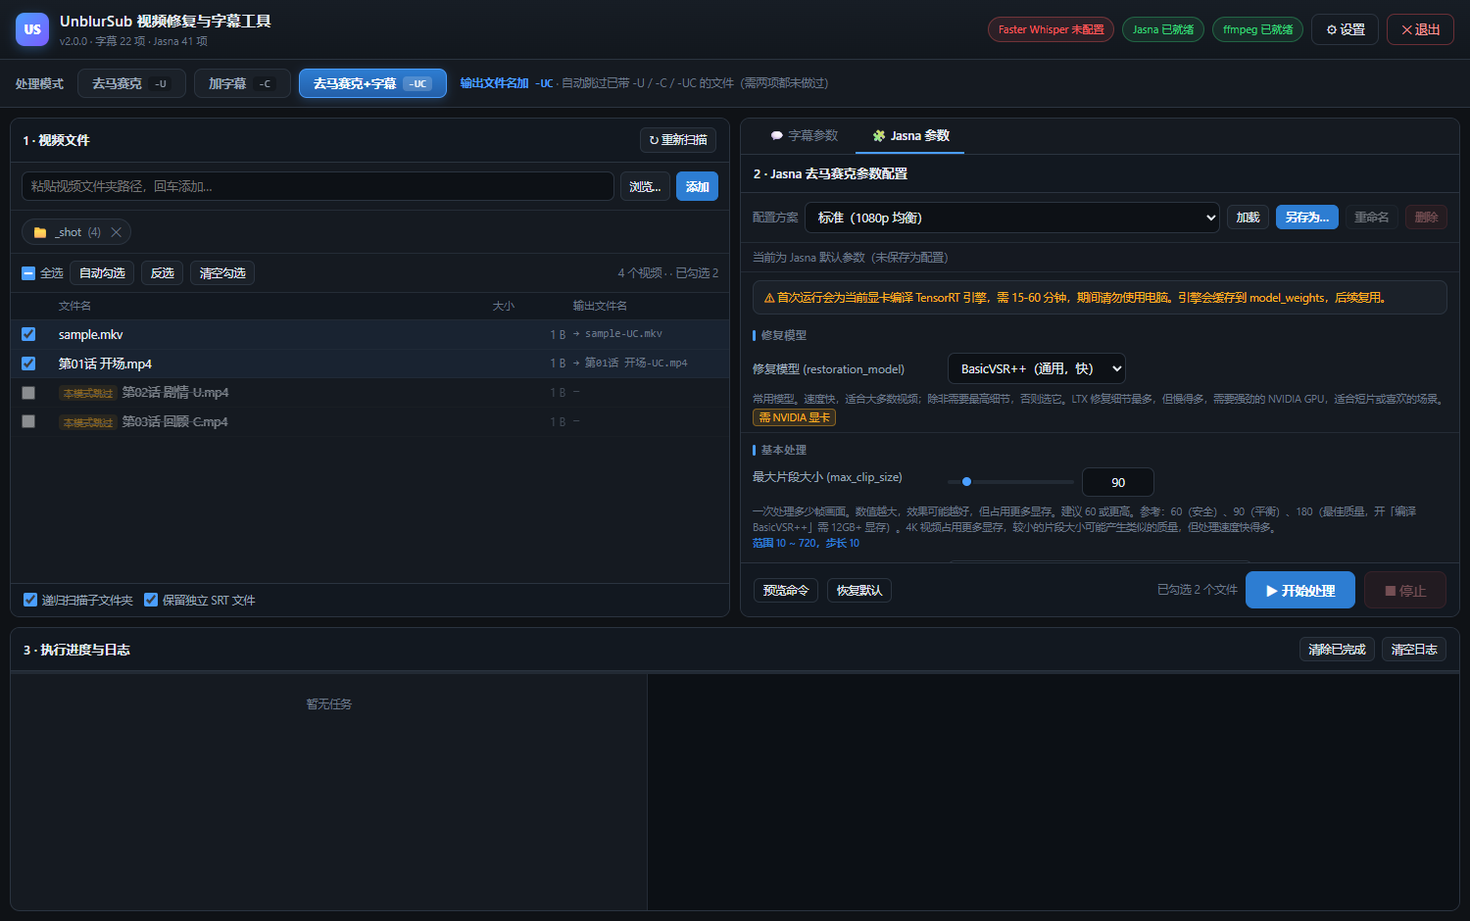
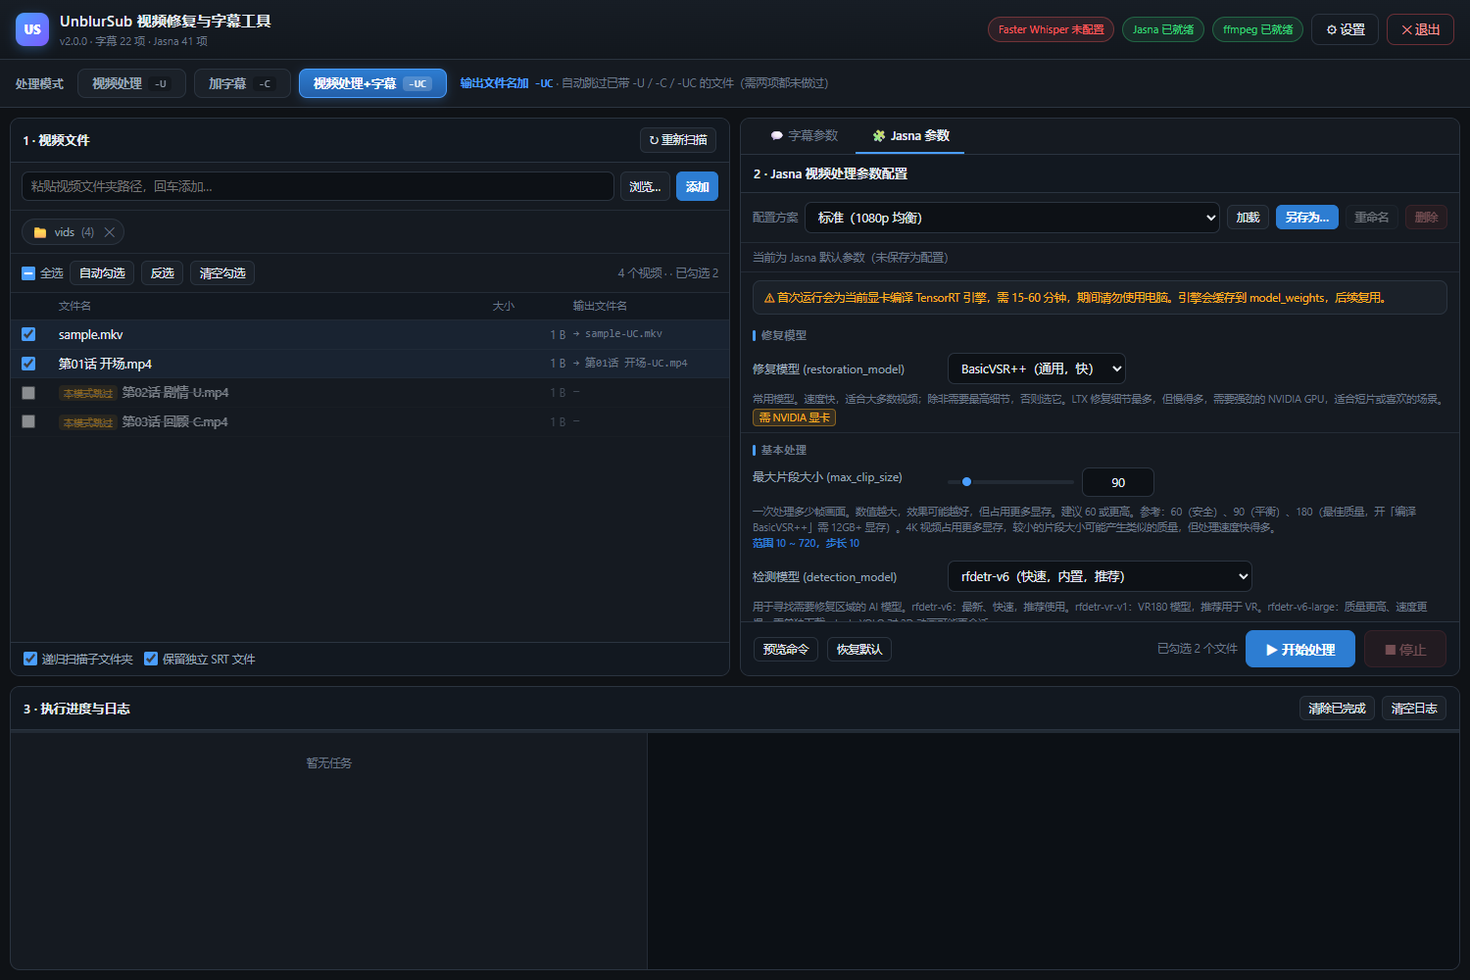
refactor: 将「去马赛克」相关表述统一为「视频处理」
按用户要求，把项目内所有面向用户的「去马赛克」表述改为中性的「视频处理」。
功能、参数、命令、命名规则均未改动，只改文案。

用户可见表述（已改）
- 模式名：「只清除马赛克」→「只做视频处理」
          「清除马赛克 + 生成中文字幕」→「视频处理 + 生成中文字幕」
          短标签「去马赛克」→「视频处理」
- 后缀语义说明：「-U = 已去马赛克」→「-U = 已完成视频处理」
- 界面：Tab 标题「Jasna 去马赛克参数配置」→「Jasna 视频处理参数配置」
        设置项「用于清除马赛克」→「用于视频处理」
        命名规则说明、跳过标签、模式提示同步更新
- 进度阶段名：「去马赛克中」→「视频处理中」，日志与错误文案同步
- 参数说明中的算法描述改为中性技术表述：
  「被跟踪的马赛克消失」→「被跟踪的目标消失」
  「正在跟踪的马赛克片段」→「正在跟踪的处理片段」
  「LTX 大马赛克模式」→「LTX 大面积区域模式」
  「Jasna 去除马赛克需要重新编码」→「Jasna 的 AI 处理需要重新编码」
  「Lada YOLO 对 2D 动画的马赛克定位」→「对 2D 动画画面中的目标定位」
- README：标题、副标题、定位描述、流程表、命名表、FAQ 全部同步

刻意保留的「马赛克」（技术事实，非本项目定位）
- README 致谢章节中介绍 Jasna / Lada / ZeLeFans 时对其功能的客观描述
  —— 抹掉这些会让读者误解上游项目的实际能力
- 三个内置配置的说明文案仍保留「去马赛克失败/完成」改为「视频处理失败/完成」，
  但 jasna_core 中的 CLI 参数名（--max-detection-gap 等）一律不动，
  否则无法与 Jasna 官方程序对接

顺带
- 修正批量替换导致的语法不通顺处（如「已视频处理」→「已完成视频处理」）
- selftest 中断言「跳过原因含『已完成视频处理』」与代码文案同步更新
- README.assets/screenshot-params.png 重新截图，反映新文案
- 删除 screenshot-main-ui.png：v1.x 旧版界面截图，已无引用且会误导

验证：selftest 350/350 通过，node --check 通过，浏览器实测三处界面文案均正确。

diff --git a/web/index.html b/web/index.html
@@ -115,7 +115,7 @@
       <!-- Tab 2：Jasna 参数 -->
       <div class="tab-pane" id="paneJasna">
         <div class="pane-head">
-          <h2>2 · Jasna 去马赛克参数配置</h2>
+          <h2>2 · Jasna 视频处理参数配置</h2>
           <div class="pane-head-actions">
             <span id="jasnaDirtyDot" class="dirty hidden" title="当前参数已修改但未保存为配置">● 未保存</span>
           </div>
@@ -172,7 +172,7 @@
     <div class="modal-head"><h3>⚙ 设置</h3><button class="modal-x" data-close>✕</button></div>
     <div class="modal-body">
       <label class="fld">
-        <span>Jasna 程序目录（须含 jasna.exe，用于清除马赛克）</span>
+        <span>Jasna 程序目录（须含 jasna.exe，用于视频处理）</span>
         <div class="row">
           <input id="inpJasnaDir" type="text" spellcheck="false" placeholder="D:\...\jasna-windows-0.10.0">
           <button id="btnJasnaBrowse" class="btn tiny">浏览…</button>
@@ -220,17 +220,17 @@
         <input id="inpExts" type="text" spellcheck="false">
       </label>
       <label class="fld inline"><input type="checkbox" id="chkKeepIntermediate">
-        <span>保留中间视频（模式 3：去马赛克后、加字幕前的文件）</span></label>
+        <span>保留中间视频（模式 3：视频处理后、加字幕前的文件）</span></label>
       <em class="msg tip">中间视频写在临时工作目录里，完成后自动删除。勾选后会移动到源文件所在文件夹，便于中途人工检查效果。失败时不会保留。</em>
       <label class="fld inline"><input type="checkbox" id="chkClosePrompt" checked>
         <span>关闭程序时，若参数已修改则提示是否保存为新配置</span></label>
       <div class="naming-note">
-        <b>命名规则</b>（后缀含义：<code>-U</code> 已去马赛克、<code>-C</code> 已加中文字幕、<code>-UC</code> 两者都有）<br>
-        · 模式 1（只去马赛克）：<code>原名-U</code>；原名以 <code>-C</code> 结尾则改为 <code>原名-UC</code><br>
+        <b>命名规则</b>（后缀含义：<code>-U</code> 已完成视频处理、<code>-C</code> 已加中文字幕、<code>-UC</code> 两者都有）<br>
+        · 模式 1（只视频处理）：<code>原名-U</code>；原名以 <code>-C</code> 结尾则改为 <code>原名-UC</code><br>
         · 模式 2（只加字幕）：<code>原名-C</code>；原名以 <code>-U</code> 结尾则改为 <code>原名-UC</code><br>
         · 模式 3（两者都做）：<code>原名-UC</code>；原名已带 <code>-C</code> 或 <code>-U</code> 时<b>自动跳过</b><br>
         字幕轨道名固定为 <b>中文字幕</b>，视频与音频流直接 copy 不重新编码；
-        <b>但去马赛克必须重新编码</b>（AI 修复无法通过 copy 完成），耗时与体积开销由此产生。
+        <b>但视频处理必须重新编码</b>（AI 处理无法通过 copy 完成），耗时与体积开销由此产生。
       </div>
     </div>
     <div class="modal-foot">

diff --git a/web/app.js b/web/app.js
@@ -104,9 +104,9 @@ async function boot() {
 
 /* ---------------- 处理模式 ---------------- */
 const MODE_META = {
-  1: { label: '只清除马赛克', short: '去马赛克', suffix: '-U', needJasna: true, needSub: false },
+  1: { label: '只做视频处理', short: '视频处理', suffix: '-U', needJasna: true, needSub: false },
   2: { label: '只生成中文字幕', short: '加字幕', suffix: '-C', needJasna: false, needSub: true },
-  3: { label: '清除马赛克 + 生成中文字幕', short: '去马赛克+字幕', suffix: '-UC', needJasna: true, needSub: true },
+  3: { label: '视频处理 + 生成中文字幕', short: '视频处理+字幕', suffix: '-UC', needJasna: true, needSub: true },
 };
 function modeMeta(m) { return MODE_META[Number(m)] || MODE_META[2]; }
 

diff --git a/jasna_core.py b/jasna_core.py
@@ -1,5 +1,5 @@
 # -*- coding: utf-8 -*-
-"""Jasna（马赛克去除）集成层：参数 schema、命令构造、目录校验。
+"""Jasna（视频处理）集成层：参数 schema、命令构造、目录校验。
 
 与字幕模块平行设计，遵循同样的约定：
   - 不依赖任何界面 / 网络库，可单独 import 做单元测试
@@ -17,7 +17,7 @@ from pathlib import Path
 # --------------------------------------------------------------------------
 # 处理模式
 # --------------------------------------------------------------------------
-# 1 = 只清除马赛克   -> 输出 -U
+# 1 = 只做视频处理   -> 输出 -U
 # 2 = 只生成中文字幕 -> 输出 -C
 # 3 = 两者都做        -> 输出 -UC
 
@@ -26,15 +26,15 @@ MODE_SUBTITLE = 2
 MODE_BOTH = 3
 
 MODES = [
-    {"value": MODE_UNBLUR, "key": "unblur", "label": "只清除马赛克",
-     "short": "去马赛克", "suffix": "-U",
-     "desc": "调用 Jasna 去除马赛克，输出文件名加 -U 后缀"},
+    {"value": MODE_UNBLUR, "key": "unblur", "label": "只做视频处理",
+     "short": "视频处理", "suffix": "-U",
+     "desc": "调用 Jasna 处理视频，输出文件名加 -U 后缀"},
     {"value": MODE_SUBTITLE, "key": "subtitle", "label": "只生成中文字幕",
      "short": "加字幕", "suffix": "-C",
      "desc": "调用 Faster Whisper 生成中文字幕并软封装，输出文件名加 -C 后缀"},
-    {"value": MODE_BOTH, "key": "both", "label": "清除马赛克 + 生成中文字幕",
-     "short": "去马赛克+字幕", "suffix": "-UC",
-     "desc": "先去马赛克，再生成中文字幕，输出文件名加 -UC 后缀"},
+    {"value": MODE_BOTH, "key": "both", "label": "视频处理 + 生成中文字幕",
+     "short": "视频处理+字幕", "suffix": "-UC",
+     "desc": "先做视频处理，再生成中文字幕，输出文件名加 -UC 后缀"},
 ]
 MODE_VALUES = [m["value"] for m in MODES]
 MODE_BY_VALUE = {m["value"]: m for m in MODES}
@@ -52,7 +52,7 @@ def normalize_mode(mode) -> int:
 # --------------------------------------------------------------------------
 # 命名规则（随模式变化）
 # --------------------------------------------------------------------------
-# 后缀语义：-U = 已去马赛克，-C = 已加中文字幕，-UC = 两者都有
+# 后缀语义：-U = 已完成视频处理，-C = 已加中文字幕，-UC = 两者都有
 
 def processed_flags(stem: str) -> dict:
     """解析文件名后缀，判断该文件已经做过哪些处理。
@@ -75,10 +75,10 @@ def processed_flags(stem: str) -> dict:
 def target_stem_mode(stem: str, mode: int) -> str:
     """按处理模式计算输出文件名（不含扩展名）。
 
-    模式 1（只去马赛克）：加 -U；原名以 -C 结尾 -> 把 -C 换成 -UC
+    模式 1（只视频处理）：加 -U；原名以 -C 结尾 -> 把 -C 换成 -UC
         ABC     -> ABC-U
         ABC-C   -> ABC-UC
-        ABC-U   -> ABC-U     （已去马赛克，模式 1 下会被跳过，此处仅兜底）
+        ABC-U   -> ABC-U     （已完成视频处理，模式 1 下会被跳过，此处仅兜底）
     模式 2（只加字幕）：加 -C；原名以 -U 结尾 -> 把 -U 换成 -UC
         ABC     -> ABC-C
         ABC-U   -> ABC-UC
@@ -88,7 +88,7 @@ def target_stem_mode(stem: str, mode: int) -> str:
     m = normalize_mode(mode)
     flags = processed_flags(stem)
     if m == MODE_UNBLUR:
-        # 已去过的马赛克不能再加 -U；原名是 -C 产物则升级为 -UC
+        # 已处理过的视频不能再加 -U；原名是 -C 产物则升级为 -UC
         if flags["c"]:
             return _swap_suffix(stem, "-UC")
         return stem + "-U"
@@ -115,7 +115,7 @@ def _swap_suffix(stem: str, new_suffix: str) -> str:
 def should_skip(stem: str, mode: int) -> bool:
     """按模式判断该文件是否应跳过（已处理过 / 无法再处理）。
 
-    模式 1（只去马赛克）：已去马赛克的（-U / -UC）跳过
+    模式 1（只做视频处理）：已完成视频处理的（-U / -UC）跳过
     模式 2（只加字幕）：已加字幕的（-C / -UC）跳过
     模式 3（两者都做）：已做过任意一项的（-U / -C / -UC）都跳过，
              因为两个产物合起来就是 -UC，无法在已处理文件上再叠加
@@ -137,15 +137,15 @@ def skip_reason(stem: str, mode: int) -> str:
     m = normalize_mode(mode)
     have = []
     if f["u"]:
-        have.append("已去马赛克")
+        have.append("已完成视频处理")
     if f["c"]:
         have.append("已加中文字幕")
     done = "、".join(have)
     if m == MODE_UNBLUR:
-        return f"文件名后缀表明{done}，模式「只清除马赛克」无需重复处理"
+        return f"文件名后缀表明{done}，模式「只做视频处理」无需重复处理"
     if m == MODE_SUBTITLE:
         return f"文件名后缀表明{done}，模式「只生成中文字幕」无需重复处理"
-    return f"文件名后缀表明{done}，模式「清除马赛克 + 生成中文字幕」需两者都未处理过"
+    return f"文件名后缀表明{done}，模式「视频处理 + 生成中文字幕」需两者都未处理过"
 
 
 def auto_selected_mode(stem: str, mode: int, rule: str = "smart") -> bool:
@@ -190,10 +190,10 @@ JASNA_PARAM_SCHEMA = [
          arg="--ltx-fast", when="true", group="修复模型",
          depends_on="restoration_model:ltx", need="rtx50",
          help="约快 1.4 倍，细节略少。仅限 RTX 50 系列。"),
-    dict(key="ltx_large_canvas", label="LTX 大马赛克更清晰", type="bool", default=False,
+    dict(key="ltx_large_canvas", label="LTX 大面积区域更清晰", type="bool", default=False,
          arg="--ltx-large-canvas", when="true", group="修复模型",
          depends_on="restoration_model:ltx", need="vram10g",
-         help="大马赛克修复得更细致，但这些部分约慢 3 倍。需要至少 10 GB 可用显存。"),
+         help="大块区域处理得更细致，但这些部分约慢 3 倍。需要至少 10 GB 可用显存。"),
     dict(key="ltx_trial", label="LTX 试运行（无需许可证，画面不正确）", type="bool",
          default=False, arg="--ltx-trial", when="true", group="修复模型",
          depends_on="restoration_model:ltx",
@@ -247,17 +247,17 @@ JASNA_PARAM_SCHEMA = [
               "片段 90 → 8-12，片段 180 → 15-20。"),
     dict(key="max_detection_gap", label="最大检测间隙", type="int", default=2,
          range=(0, 10, 1), arg="--max-detection-gap", when="nonempty", group="高级处理",
-         help="填补短暂的检测中断：如果被跟踪的马赛克消失不超过 N 帧且在相同位置重新出现，"
+         help="填补短暂的检测中断：如果被跟踪的目标消失不超过 N 帧且在相同位置重新出现，"
               "则填补间隙并继续该片段，而不是将其切断。保持较小数值，"
               "以免真正快速出现/消失的画面被错误填补。0 表示禁用。"),
     dict(key="min_detection_duration", label="最短检测持续帧数", type="int", default=2,
          range=(0, 10, 1), arg="--min-detection-duration", when="nonempty", group="高级处理",
          help="丢弃持续少于 N 帧的检测（很可能是单帧误检），这些帧保持原样。"
-              "保持较小数值，否则真实存在但只持续几帧的马赛克会被跳过。0 或 1 表示禁用。"),
+              "保持较小数值，否则真实存在但只持续几帧的目标会被跳过。0 或 1 表示禁用。"),
     dict(key="scene_detection", label="镜头切换检测", type="bool", default=True,
          arg="--scene-detection", when="true", group="高级处理",
-         help="检测硬切镜头（场景切换），并在切换点结束所有正在跟踪的马赛克片段，"
-              "确保片段不会跨越两个不同镜头，避免修复时混合切换前后的画面。推荐始终开启。"),
+         help="检测硬切镜头（场景切换），并在切换点结束所有正在跟踪的处理片段，"
+              "确保片段不会跨越两个不同镜头，避免处理时混合切换前后的画面。推荐始终开启。"),
     dict(key="enable_crossfade", label="启用交叉淡入淡出", type="bool", default=True,
          arg="--enable-crossfade", when="true", group="高级处理",
          help="在片段边界处进行平滑过渡，减少画面闪烁。使用已处理的帧，"
@@ -359,8 +359,8 @@ JASNA_PARAM_SCHEMA = [
                         "h264": "H.264 (AVC)（兼容性最好，文件较大）",
                         "av1": "AV1（压缩率最高，需较新播放器与显卡）"},
          arg="--codec", when="always", group="编码输出",
-         help="输出视频格式。注意 Jasna 去除马赛克需要重新编码（不能像字幕那样 copy），"
-              "这是去马赛克的固有代价。"),
+         help="输出视频格式。注意 Jasna 的 AI 处理需要重新编码（不能像字幕那样 copy），"
+              "这是视频处理的固有代价。"),
     dict(key="encoder_cq", label="质量 (CQ)", type="int", default="",
          range=(1, 63, 1), arg="--cq", when="nonempty", group="编码输出",
          placeholder="留空 = 用 GPU 默认值（NVIDIA：H.264 25 / HEVC 28 / AV1 35）",
@@ -574,7 +574,7 @@ def builtin_jasna_profiles() -> dict:
         "动画 / 2D（YOLO 检测）": mk(
             max_clip_size=90, temporal_overlap=8, codec="hevc",
             detection_model="lada-yolov8s", detection_score_threshold=0.25,
-            help="Lada YOLO 检测模型对 2D 动画的马赛克定位更准，推荐阈值 0.25。"
+            help="Lada YOLO 检测模型对 2D 动画画面中的目标定位更准，推荐阈值 0.25。"
                  "需确保 model_weights 下有对应权重。"),
     }
 
@@ -766,7 +766,7 @@ def check_jasna_dependencies(params: dict) -> list:
     if p.get("ltx_fast"):
         out.append({"level": "warn", "text": "LTX 快速模式仅限 RTX 50 系列显卡。"})
     if p.get("ltx_large_canvas"):
-        out.append({"level": "warn", "text": "LTX 大马赛克模式需要至少 10 GB 可用显存。"})
+        out.append({"level": "warn", "text": "LTX 大面积区域模式需要至少 10 GB 可用显存。"})
     if p.get("compile_basicvsrpp"):
         out.append({"level": "warn",
                     "text": "首次运行会为当前显卡编译 TensorRT 引擎，需 15-60 分钟，"

diff --git a/jobs.py b/jobs.py
@@ -1,8 +1,8 @@
 # -*- coding: utf-8 -*-
-"""任务队列与处理流水线：按处理模式执行「去马赛克」与/或「中文字幕」。
+"""任务队列与处理流水线：按处理模式执行「视频处理」与/或「中文字幕」。
 
 三种模式：
-  1只清除马赛克   —— jasna.exe 修复 -> 输出 -U
+  1只做视频处理   —— jasna.exe 修复 -> 输出 -U
   2 只生成中文字幕 —— infer.exe 转录 -> ffmpeg -c copy 封装 -> 输出 -C
   3 两者都做       —— jasna.exe 修复到中间文件 -> 转录 -> 封装 -> 输出 -UC
                      中间文件按设置（keep_intermediate）决定是否保留
@@ -375,7 +375,7 @@ class JobManager:
 
         self.log.push(f"▶ [{job.index}] {src.name}（{jasna_core.MODE_BY_VALUE[mode]['label']}）")
 
-        # ----------阶段 1：去马赛克（模式 1 / 3） ----------
+        # ----------阶段 1：视频处理（模式 1 / 3） ----------
         video_in = src
         if need_jasna:
             video_in = self._stage_unblur(job, src, dst, wd)
@@ -394,9 +394,9 @@ class JobManager:
                       f"（{core.human_size(dst.stat().st_size)}，{mode_label}完成）", "ok")
         return wd
 
-    # ---- 阶段 1：Jasna 去马赛克 ----
+    # ---- 阶段 1：Jasna 视频处理 ----
     def _stage_unblur(self, job: Job, src: Path, dst: Path, wd: Path) -> Path:
-        """调用 jasna.exe 去马赛克。返回去马赛克后的视频路径。
+        """调用 jasna.exe 视频处理。返回视频处理后的视频路径。
 
         模式 1：直接输出到最终 dst。
         模式 3：输出到工作目录作为中间文件，交给阶段 2 加字幕。
@@ -410,8 +410,8 @@ class JobManager:
             # 中间文件放工作目录，避免污染源目录
             target = wd / f"{dst.stem}.{self._jasna_ext()}"
 
-        job.stage = "去马赛克中"
-        # 模式 3 里去马赛克约占 70% 工期（后面转录+封装占 30%）
+        job.stage = "视频处理中"
+        # 模式 3 里视频处理约占 70% 工期（后面转录+封装占 30%）
         base, span = (2, 68) if not is_final else (2, 96)
         job.progress = base
         args = jasna_core.build_jasna_args(job.jasna_params, src, target, wd)
@@ -435,11 +435,11 @@ class JobManager:
                                on_line=on_line, stop_flag=self._stop,
                                pidfile=self._pidfile_path())
         if rc != 0 or self._stop.is_set():
-            raise RuntimeError(f"去马赛克失败（退出码 {rc}），详见日志")
+            raise RuntimeError(f"视频处理失败（退出码 {rc}），详见日志")
         if not target.exists() or target.stat().st_size == 0:
-            raise RuntimeError(f"去马赛克未产出有效文件：{target.name}")
+            raise RuntimeError(f"视频处理未产出有效文件：{target.name}")
         job.progress = base + span
-        self.log.push(f"  去马赛克完成 → {target.name}"
+        self.log.push(f"  视频处理完成 → {target.name}"
                       f"（{core.human_size(target.stat().st_size)}）", "ok")
         if not is_final:
             job.intermediate = target

diff --git a/selftest.py b/selftest.py
@@ -42,9 +42,9 @@ def section(t):
 
 
 # ---------------------------------------------------------------- 1. 命名规则
-section("1. 输出文件命名规则（随处理模式变化：-U=已去马赛克 -C=已加字幕 -UC=两者）")
+section("1. 输出文件命名规则（随处理模式变化：-U=已完成视频处理 -C=已加字幕 -UC=两者）")
 
-# 模式 1：只清除马赛克 -> 加 -U；原名 -C 结尾则升级为 -UC
+# 模式 1：只做视频处理 -> 加 -U；原名 -C 结尾则升级为 -UC
 check("模式1 ABC -> ABC-U", core.target_stem("ABC", 1), "ABC-U")
 check("模式1 ABC-C -> ABC-UC", core.target_stem("ABC-C", 1), "ABC-UC")
 check("模式1 ABC-C -> ABC-UC", core.target_stem("ABC-C", 1), "ABC-UC")
@@ -76,10 +76,10 @@ check("parsed: 小写 abc-uc", jasna_core.processed_flags("abc-uc"), {"u": True,
 
 # ---------------------------------------------------------------- 2. 跳过与自动勾选
 section("2. 按模式跳过规则与自动勾选")
-# 模式 1：已去马赛克的跳过
+# 模式 1：已完成视频处理的跳过
 check("模式1 ABC 不跳过", jasna_core.should_skip("ABC", 1), False)
-check("模式1 ABC-C 不跳过（还能去马赛克）", jasna_core.should_skip("ABC-C", 1), False)
-check("模式1 ABC-U 跳过（已去马赛克）", jasna_core.should_skip("ABC-U", 1), True)
+check("模式1 ABC-C 不跳过（还能视频处理）", jasna_core.should_skip("ABC-C", 1), False)
+check("模式1 ABC-U 跳过（已完成视频处理）", jasna_core.should_skip("ABC-U", 1), True)
 check("模式1 ABC-UC 跳过", jasna_core.should_skip("ABC-UC", 1), True)
 # 模式 2：已加字幕的跳过
 check("模式2 ABC 不跳过", jasna_core.should_skip("ABC", 2), False)
@@ -93,8 +93,8 @@ check("模式3 ABC-C 跳过", jasna_core.should_skip("ABC-C", 3), True)
 check("模式3 ABC-UC 跳过", jasna_core.should_skip("ABC-UC", 3), True)
 
 check_true("跳过原因为空（不跳过时）", jasna_core.skip_reason("ABC", 1) == "")
-check_true("模式1 跳过原因含「已去马赛克」",
-           "已去马赛克" in jasna_core.skip_reason("ABC-U", 1))
+check_true("模式1 跳过原因含「已完成视频处理」",
+           "已完成视频处理" in jasna_core.skip_reason("ABC-U", 1))
 check_true("模式2 跳过原因含「已加中文字幕」",
            "已加中文字幕" in jasna_core.skip_reason("ABC-C", 2))
 check_true("模式3 跳过原因非空", jasna_core.skip_reason("ABC-U", 3) != "")
@@ -596,7 +596,7 @@ with tempfile.TemporaryDirectory() as td:
             os.environ["APPDATA"] = old
 
 # ================================================================
-# 14. Jasna 集成（去马赛克模块）
+# 14. Jasna 集成（视频处理模块）
 # ================================================================
 section("14. Jasna 参数 schema 与内置配置")
 check("JASNA schema 项数 >= 35", len(jasna_core.JASNA_PARAM_SCHEMA) >= 35, True)

diff --git a/core.py b/core.py
@@ -72,7 +72,7 @@ DEFAULT_SETTINGS = {
     "existing_output_policy": "number",  # number / skip / overwrite
     "output_dir": "",             # 新视频输出目录，留空 = 与源文件同目录
     "keep_srt": True,             # 封装后保留中间 SRT
-    "keep_intermediate": False,   # 保留模式 3 的中间视频（去马赛克后、加字幕前）
+    "keep_intermediate": False,   # 保留模式 3 的中间视频（视频处理后、加字幕前）
     "close_prompt": True,         # 关闭时提示保存未保存的参数配置
     "_auto_select": True,         # 是否按规则自动勾选（用户手动改过则为 False）
     "_rule_version": RULE_VERSION,  # 已应用规则的版本，见 RULE_VERSION
@@ -473,7 +473,7 @@ def ffmpeg_broken_pipe_fix(path: str) -> list:
 # --------------------------------------------------------------------------
 # 命名规则
 # --------------------------------------------------------------------------
-# 后缀语义：-U = 已去马赛克，-C = 已加中文字幕，-UC = 两者都有
+# 后缀语义：-U = 已完成视频处理，-C = 已加中文字幕，-UC = 两者都有
 # 具体规则与模式判定见 jasna_core（命名随处理模式变化，此处只做薄封装）
 
 def target_stem(stem: str, mode: int = jasna_core.MODE_SUBTITLE) -> str:
